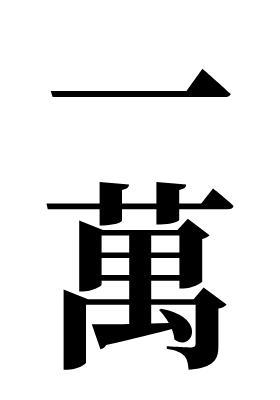
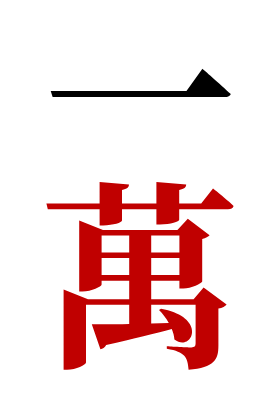
Double discard tile size and refine manzu and souzu colors

Changed region(s): [[0.1714, 0.45, 0.8286, 0.93]]

diff --git a/public/app.js b/public/app.js
@@ -151,7 +151,8 @@ socket.on("room:update", room => {
   roomState = room;
   renderResult(room);
   $("doraIndicators").innerHTML = `<small>도라 표시패</small>${(room.doraIndicators||[]).map(t=>tileFace(t)).join("")}`;
-  if (room.paused || !room.started) { selectedHandIndex = null; renderDiscards(); }
+  if (room.paused || !room.started) selectedHandIndex = null;
+  renderDiscards();
   $("riichiPot").textContent = `공탁 ${(room.riichiPot || 0) * 1000}`;
   renderTurn();
 
@@ -236,7 +237,7 @@ const tileOrder = tile => {
 function tileFace(tile, extra = "") {
   const suit = {"만":"m","통":"p","삭":"s"}[tile.slice(-1)];
   const code = suit ? suit + tile[0] : 'z' + (["동","남","서","북","백","발","중"].indexOf(tile)+1);
-  return `<span class="tile ${extra}" role="img" aria-label="${escapeHtml(tile)}"><img src="/tiles/${code}.png?v=20261101-contrast" alt="" draggable="false"><span class="sr-only">${escapeHtml(tile)}</span></span>`;
+  return `<span class="tile ${extra}" role="img" aria-label="${escapeHtml(tile)}"><img src="/tiles/${code}.png?v=20261101-large-rivers" alt="" draggable="false"><span class="sr-only">${escapeHtml(tile)}</span></span>`;
 }
 function renderHand() {
   const tiles = myHand.map((tile, i) => ({tile, i}));
@@ -270,8 +271,9 @@ function renderDiscards() {
   $("discards").innerHTML = [0,1,2,3].map(offset => {
     const seat = (Math.max(0,mySeat)+offset)%4;
     const tiles = lastDiscards.map((d,i)=>({...d,index:i})).filter(d=>d.seat===seat);
-    return `<div class="river ${positions[offset]}" aria-label="${winds[seat]}가 버림패">${tiles.map(d=>tileFace(d.tile,`${selectedHandIndex !== null && d.tile === myHand[selectedHandIndex] ? 'matching-tile' : ''} ${d.riichi ? 'riichi-discard' : ''} ${d.calledBy !== undefined ? 'claimed' : ''} ${d.index===lastDiscards.length-1?'latest':''} ${callState && !callState.answered && callState.options.length && d.index===callState.index?'callable':''}`)).join("")}</div>`;
+    return `<section class="river-zone ${positions[offset]}"><div class="river-label"><b>${winds[seat]}가${seat===mySeat?" · 나":""}</b><span>${escapeHtml(roomState?.players[seat]?.name||"")}${roomState?.players[seat]?.riichi?" · 리치":""}${roomState?.players[seat]?.connected===false?" · 연결 끊김":""}</span></div><div class="river ${positions[offset]}" aria-label="${winds[seat]}가 버림패">${tiles.map(d=>tileFace(d.tile,`${selectedHandIndex !== null && d.tile === myHand[selectedHandIndex] ? 'matching-tile' : ''} ${d.riichi ? 'riichi-discard' : ''} ${d.calledBy !== undefined ? 'claimed' : ''} ${d.index===lastDiscards.length-1?'latest':''} ${callState && !callState.answered && callState.options.length && d.index===callState.index?'callable':''}`)).join("")}</div></section>`;
   }).join("");
+  $("discards").querySelectorAll(".river").forEach(river=>{river.scrollTop=river.scrollHeight;});
 }
 function renderCalls() {
   const panel = $("callPanel");

diff --git a/public/game-view.css b/public/game-view.css
@@ -229,3 +229,37 @@ body.in-game { background: #b9dad4; color: #163f44; }
 /* Opaque white raster artwork must retain full contrast, including disabled hands. */
 .hand button, .hand button:disabled, .hand button:hover:disabled { opacity:1; filter:none; }
 .tile img { opacity:1; filter:none; mix-blend-mode:normal; background:#ffffff; }
+
+/* Double tile width and height; use the wide table instead of a tiny central ring. */
+.mahjong-table > * { --river-tile:clamp(22px,11cqh,50px); }
+#seats { display:none; }
+.river-zone { position:absolute; width:calc((100% - var(--center-size)) / 2 - 24px); height:calc(50% - 12px); display:flex; flex-direction:column; gap:3px; }
+.river-zone.left { left:10px; top:7px; }
+.river-zone.top { right:10px; top:7px; }
+.river-zone.bottom { left:10px; bottom:7px; }
+.river-zone.right { right:10px; bottom:7px; }
+.river-label { display:flex; align-items:center; gap:8px; height:15px; flex-shrink:0; color:#f3fafc; font-size:11px; }
+.river-label b { color:#fff1b9; }
+.river-label span { overflow:hidden; text-overflow:ellipsis; white-space:nowrap; }
+.river-zone .river { position:relative; inset:auto; transform:none; width:100%; height:auto; min-height:0; flex:1; max-height:none; grid-template-columns:repeat(9,var(--river-tile)); grid-auto-rows:calc(var(--river-tile) / .7); gap:2px; overflow:auto; scrollbar-width:thin; padding:2px; }
+.river-zone .tile { width:var(--river-tile); }
+.dora-indicators { left:50%; top:8px; transform:translateX(-50%); flex-wrap:wrap; justify-content:center; max-width:var(--center-size); padding:2px; }
+.dora-indicators small { width:100%; text-align:center; font-size:8px; }
+@media (orientation:landscape) and (max-height:600px) {
+ .mahjong-table > * { --river-tile:clamp(18px,11cqh,34px); }
+ .river-label { height:12px; font-size:9px; }
+ .river-zone { gap:2px; height:calc(50% - 5px); }
+ .river-zone.left,.river-zone.top { top:3px; }
+ .river-zone.bottom,.river-zone.right { bottom:3px; }
+ .dora-indicators .tile { width:13px; }
+}
+@media (orientation:portrait) and (max-width:700px) {
+ #game { grid-template-rows:30px auto 800px auto auto auto; }
+ .mahjong-table { min-height:800px; }
+ .mahjong-table > * { --river-tile:34px; }
+ .tablecenter { top:72px; }
+ .dora-indicators { top:130px; max-width:none; flex-wrap:nowrap; }
+ .dora-indicators small { width:auto; }
+ .river-zone { left:10px!important; right:auto!important; bottom:auto!important; width:calc(100% - 20px); height:150px; }
+ .river-zone.top { top:174px; }.river-zone.left { top:330px; }.river-zone.right { top:486px; }.river-zone.bottom { top:642px; }
+}

diff --git a/public/index.html b/public/index.html
@@ -6,7 +6,7 @@
 <meta name="viewport" content="width=device-width,initial-scale=1,viewport-fit=cover">
 <title>雀 ROOM - 온라인 마작</title>
 <link rel="stylesheet" href="style.css">
-<link rel="stylesheet" href="game-view.css?v=20261101-contrast">
+<link rel="stylesheet" href="game-view.css?v=20261101-large-rivers">
 </head>
 <body>
 <main class="shell">
@@ -65,6 +65,6 @@
 <footer>Mahjong Room · 실시간 방/턴 동기화 데모</footer>
 </main>
 <script src="/socket.io/socket.io.js"></script>
-<script src="app.js?v=20261101-contrast"></script>
+<script src="app.js?v=20261101-large-rivers"></script>
 </body>
 </html>

diff --git a/scripts/generate-tiles.py b/scripts/generate-tiles.py
@@ -7,7 +7,7 @@ from fontTools.pens.svgPathPen import SVGPathPen
 font=TTFont('/usr/share/fonts/opentype/noto/NotoSerifCJK-Bold.ttc',fontNumber=0)
 glyphs=font.getGlyphSet(); cmap=font.getBestCmap(); units=font['head'].unitsPerEm
 out=Path(__file__).resolve().parents[1]/'public'/'tiles'; out.mkdir(exist_ok=True)
-ink='#000000'; red='#c00000'; green='#00451b'; blue=ink
+ink='#000000'; red='#c00000'; green='#086b32'; blue=ink
 def glyph(char,x,y,size,color):
     pen=SVGPathPen(glyphs);glyphs[cmap[ord(char)]].draw(pen)
     return f'<path fill="{color}" transform="translate({x},{y}) scale({size/units},-{size/units})" d="{pen.getCommands()}"/>'
@@ -18,7 +18,7 @@ def circle(x,y,r,c):
     return f'<circle cx="{x}" cy="{y}" r="{r}" fill="none" stroke="{c}" stroke-width="2.7"/><circle cx="{x}" cy="{y}" r="{r*.75}" fill="none" stroke="{c}" stroke-width="1.1"/>{petals}<circle cx="{x}" cy="{y}" r="{r*.19}" fill="{c}"/>'
 def bamboo(x,y,c=green):
     return f'<g transform="translate({x},{y})"><path d="M-4-8Q0-10 4-8L3 8Q0 10-3 8Z" fill="{c}"/><path d="M-5-6H5M-5 0H5M-5 6H5" stroke="{c}" stroke-width="3.6" stroke-linecap="round"/><path d="M0-5V-2M0 2V5" stroke="#fff" stroke-width=".7"/></g>'
-for n,c in enumerate('一二三四五六七八九',1):save('m'+str(n),glyph(c,11,43,48,ink)+glyph('萬',10,88,50,ink))
+for n,c in enumerate('一二三四五六七八九',1):save('m'+str(n),glyph(c,11,43,48,ink)+glyph('萬',10,88,50,red))
 positions={2:[(35,28),(35,72)],3:[(18,25),(35,50),(52,75)],4:[(20,28),(50,28),(20,72),(50,72)],5:[(18,25),(52,25),(35,50),(18,75),(52,75)],6:[(20,22),(50,22),(20,50),(50,50),(20,78),(50,78)],7:[(16,20),(35,30),(54,40),(20,60),(50,60),(20,83),(50,83)],8:[(20,y) for y in [17,39,61,83]]+[(50,y) for y in [17,39,61,83]],9:[(x,y) for y in [22,50,78] for x in [16,35,54]]}
 for n in range(1,10):
     if n==1: face=circle(35,50,24,ink)+circle(35,50,9,red)
@@ -27,7 +27,7 @@ for n in range(1,10):
         face=''.join(circle(x,y,8 if n>=7 else 10,c) for (x,y),c in zip(positions[n],colors))
     save('p'+str(n),face)
 # One bamboo is the traditional bird, not a single stick.
-bird='''<path d="M33 61L17 87L32 77L38 65M42 64L46 88L51 83L48 61" fill="#00451b"/><path d="M20 42Q10 61 30 70Q49 77 55 50L46 31Q30 28 20 42Z" fill="#00451b"/><path d="M24 42Q19 61 37 64Q48 57 47 45Q35 53 24 42" fill="#fff"/><path d="M24 43Q35 45 44 37M25 50L41 44M28 57L43 49" fill="none" stroke="#00451b" stroke-width="3"/><path d="M39 36Q24 33 29 21Q34 12 45 18Q54 23 47 35Z" fill="#000000"/><path d="M45 23L59 28L47 30" fill="#c00000"/><circle cx="43" cy="23" r="2.4" fill="#fff"/><circle cx="43.5" cy="23" r="1.2" fill="#000000"/><path d="M30 30Q39 35 47 31L45 38Q36 40 30 35" fill="#c00000"/><path d="M28 73L26 82L20 84M43 73L42 82L36 84" stroke="#c00000" stroke-width="2.5" fill="none"/>'''
+bird='''<path d="M33 61L17 87L32 77L38 65M42 64L46 88L51 83L48 61" fill="#086b32"/><path d="M20 42Q10 61 30 70Q49 77 55 50L46 31Q30 28 20 42Z" fill="#086b32"/><path d="M24 42Q19 61 37 64Q48 57 47 45Q35 53 24 42" fill="#fff"/><path d="M24 43Q35 45 44 37M25 50L41 44M28 57L43 49" fill="none" stroke="#086b32" stroke-width="3"/><path d="M39 36Q24 33 29 21Q34 12 45 18Q54 23 47 35Z" fill="#000000"/><path d="M45 23L59 28L47 30" fill="#c00000"/><circle cx="43" cy="23" r="2.4" fill="#fff"/><circle cx="43.5" cy="23" r="1.2" fill="#000000"/><path d="M30 30Q39 35 47 31L45 38Q36 40 30 35" fill="#c00000"/><path d="M28 73L26 82L20 84M43 73L42 82L36 84" stroke="#c00000" stroke-width="2.5" fill="none"/>'''
 save('s1',bird)
 for n in range(2,10):
     pts=positions[n]

diff --git a/README.md b/README.md
@@ -82,4 +82,6 @@
 ## 중앙 점수판과 표준 패 문양
 - 순백색 바탕 PNG 34종을 손패·버림패·부로·도라·화료 결과에 공통으로 사용합니다. 만수 한자, 통수 원형 배열, 삭수 대나무와 1삭 새, 자패를 이미지로 고정해 기기 글꼴에 영향을 받지 않습니다. 백은 무늬 없는 흰 패입니다.
 - 자신의 자리가 항상 중앙 점수판 아래쪽이며, 네 명의 점수는 중앙에 모아 표시합니다. 현재 차례의 점수 칸과 중앙 차례 문구를 함께 강조합니다. 외곽에는 이름·리치·연결 상태만 표시합니다.
-- 패 원본 생성 도구는 `scripts/generate-tiles.py`, PNG 출력 도구는 `scripts/rasterize-tiles.cjs`입니다. 재생성에 Python fontTools·Noto Serif CJK·Playwright Chromium이 필요하며, 서버 실행에는 필요하지 않습니다. 만수는 검정, 통수는 검정·빨강, 삭수는 진한 녹색·빨강을 사용합니다. 불투명 PNG로 제공해 강제 다크 모드의 SVG 문양 재색칠을 줄입니다. 글자 윤곽의 Noto 라이선스는 `public/tiles/LICENSE.txt`에 포함했습니다.
+- 패 원본 생성 도구는 `scripts/generate-tiles.py`, PNG 출력 도구는 `scripts/rasterize-tiles.cjs`입니다. 재생성에 Python fontTools·Noto Serif CJK·Playwright Chromium이 필요하며, 서버 실행에는 필요하지 않습니다. 만수 숫자는 검정·萬은 빨강, 통수는 검정·빨강, 삭수는 선명한 녹색·빨강을 사용합니다. 불투명 PNG로 제공해 강제 다크 모드의 SVG 문양 재색칠을 줄입니다. 글자 윤곽의 Noto 라이선스는 `public/tiles/LICENSE.txt`에 포함했습니다.
+
+버림패는 이전 중앙 밀집 배치 대비 가로·세로 각각 2배로 표시합니다. 가로 화면의 좌우를 네 구역으로 나누어 좌석·이름을 붙이고, 구역별 9장씩 2줄(18장)을 동시에 보여줍니다. 그 이상은 구역 안에서 스크롤하며 최신 버림패를 표시합니다. 세로 화면은 큰 패를 유지하도록 테이블을 아래로 펼칩니다.
